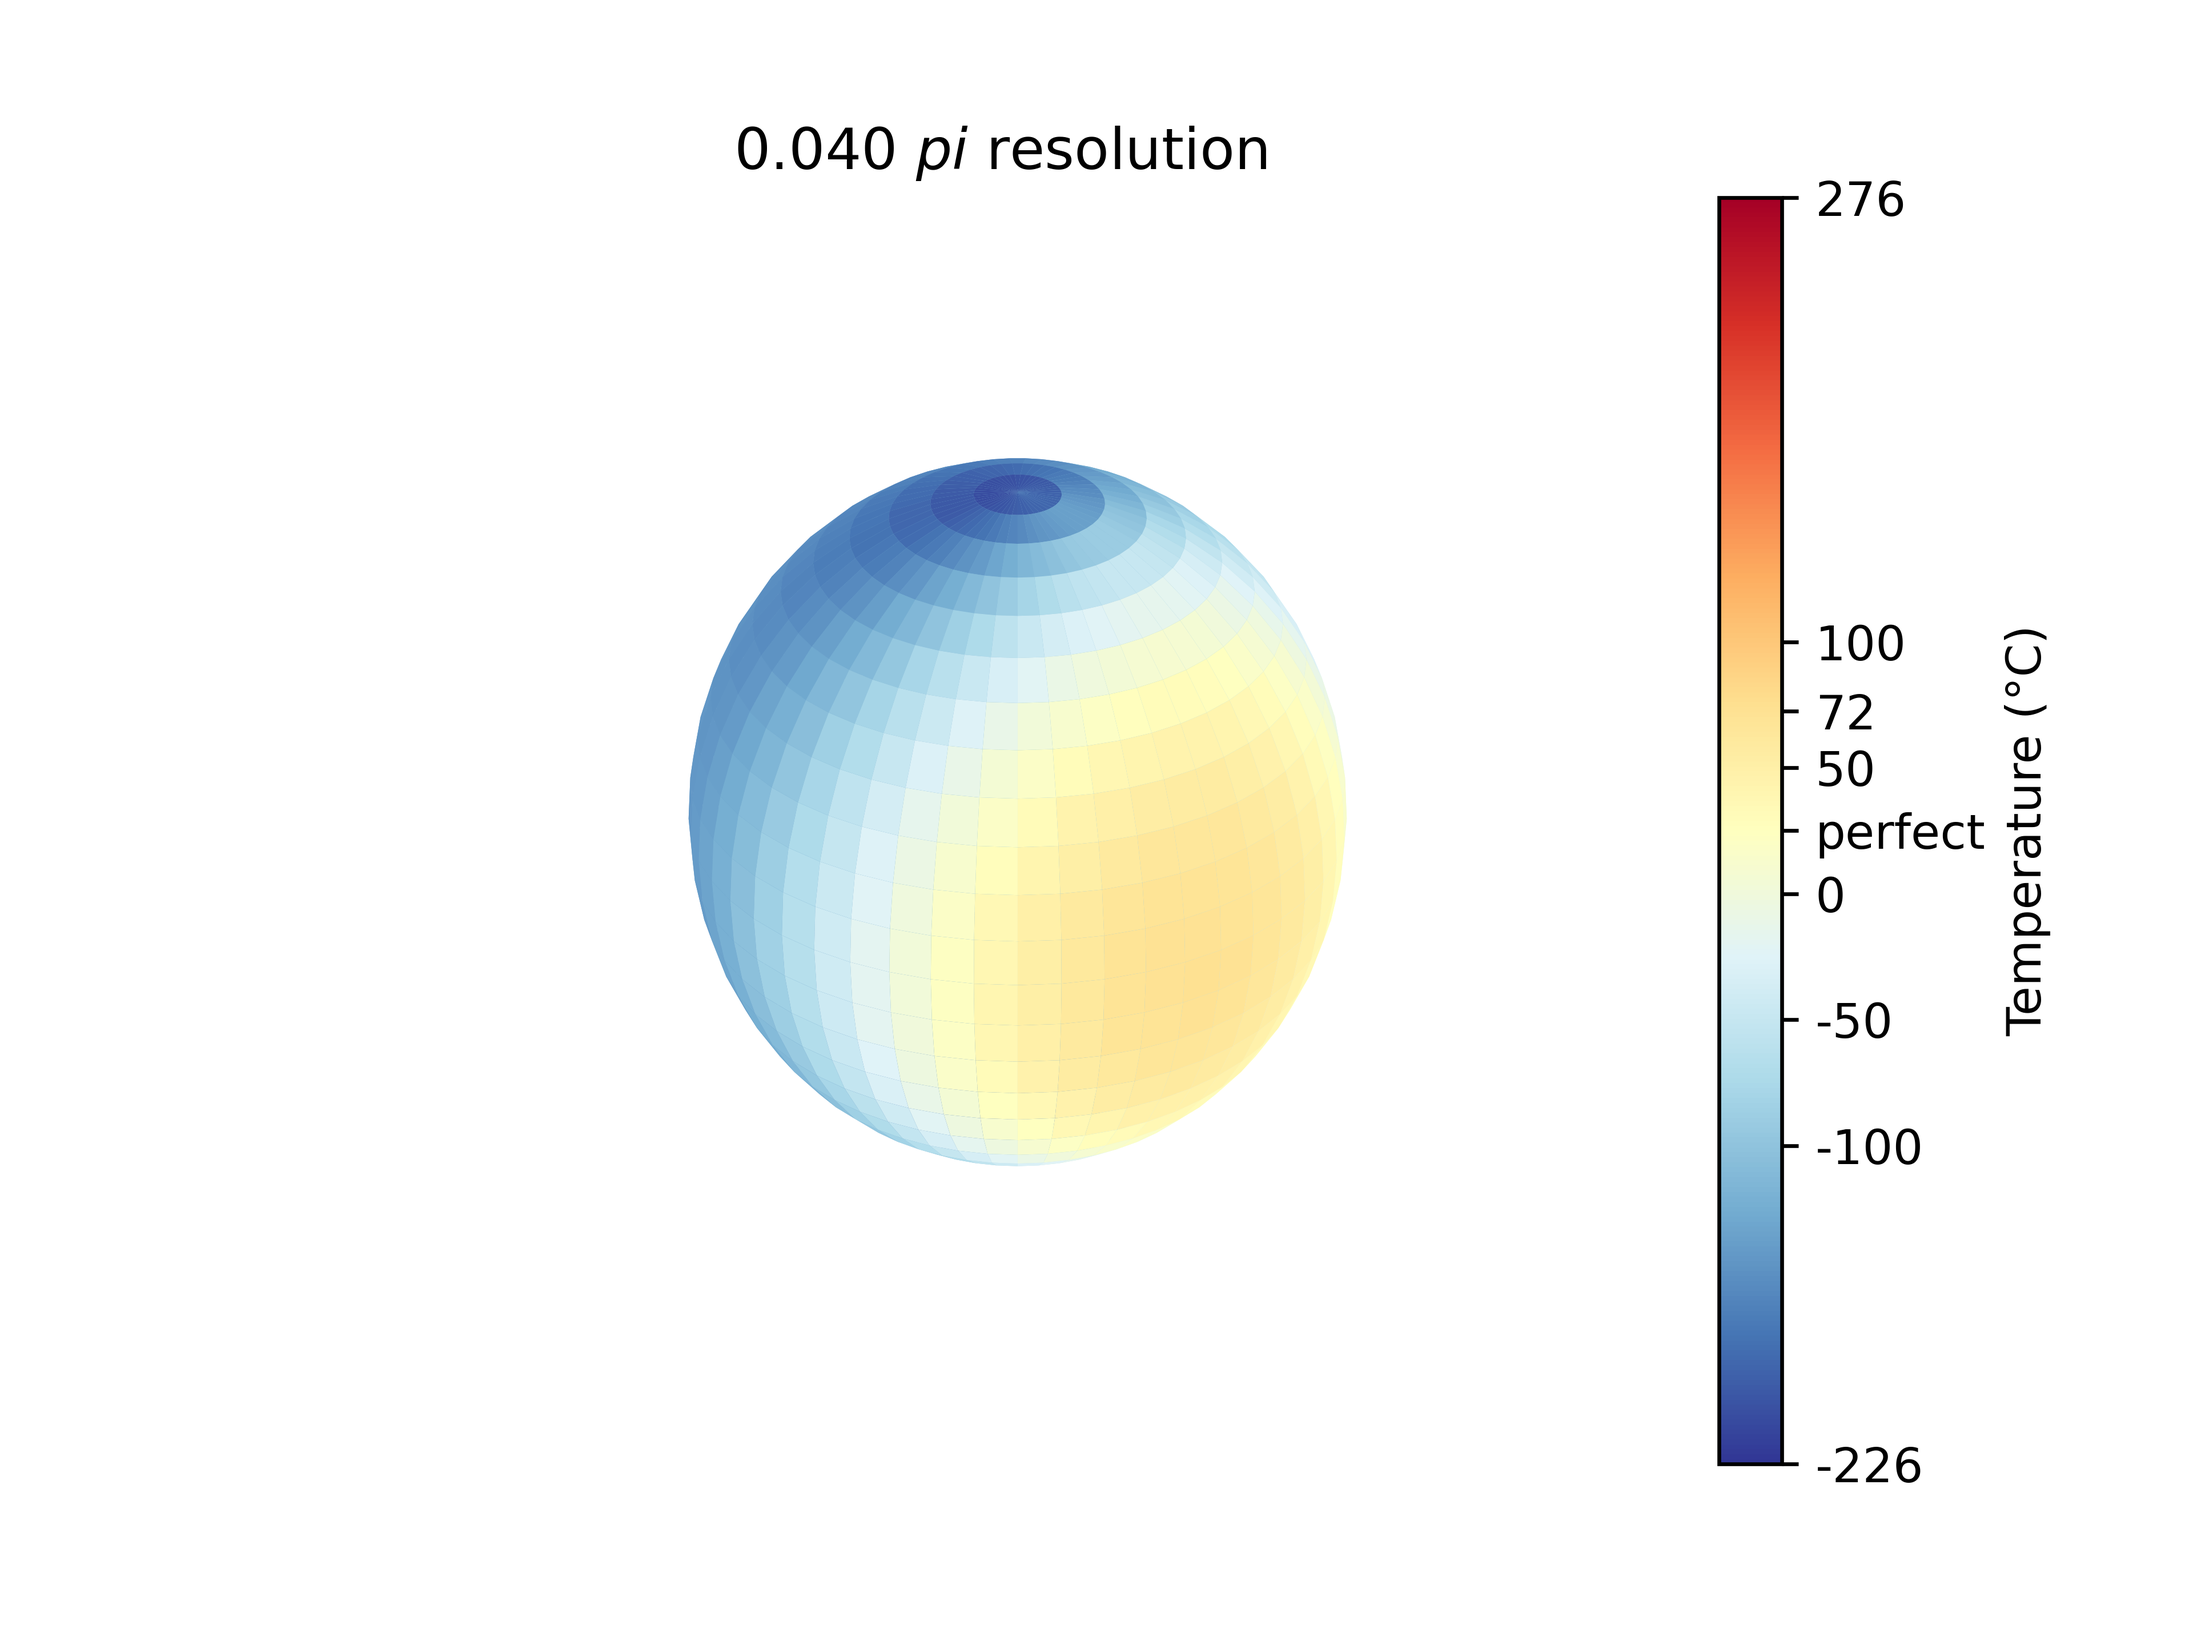
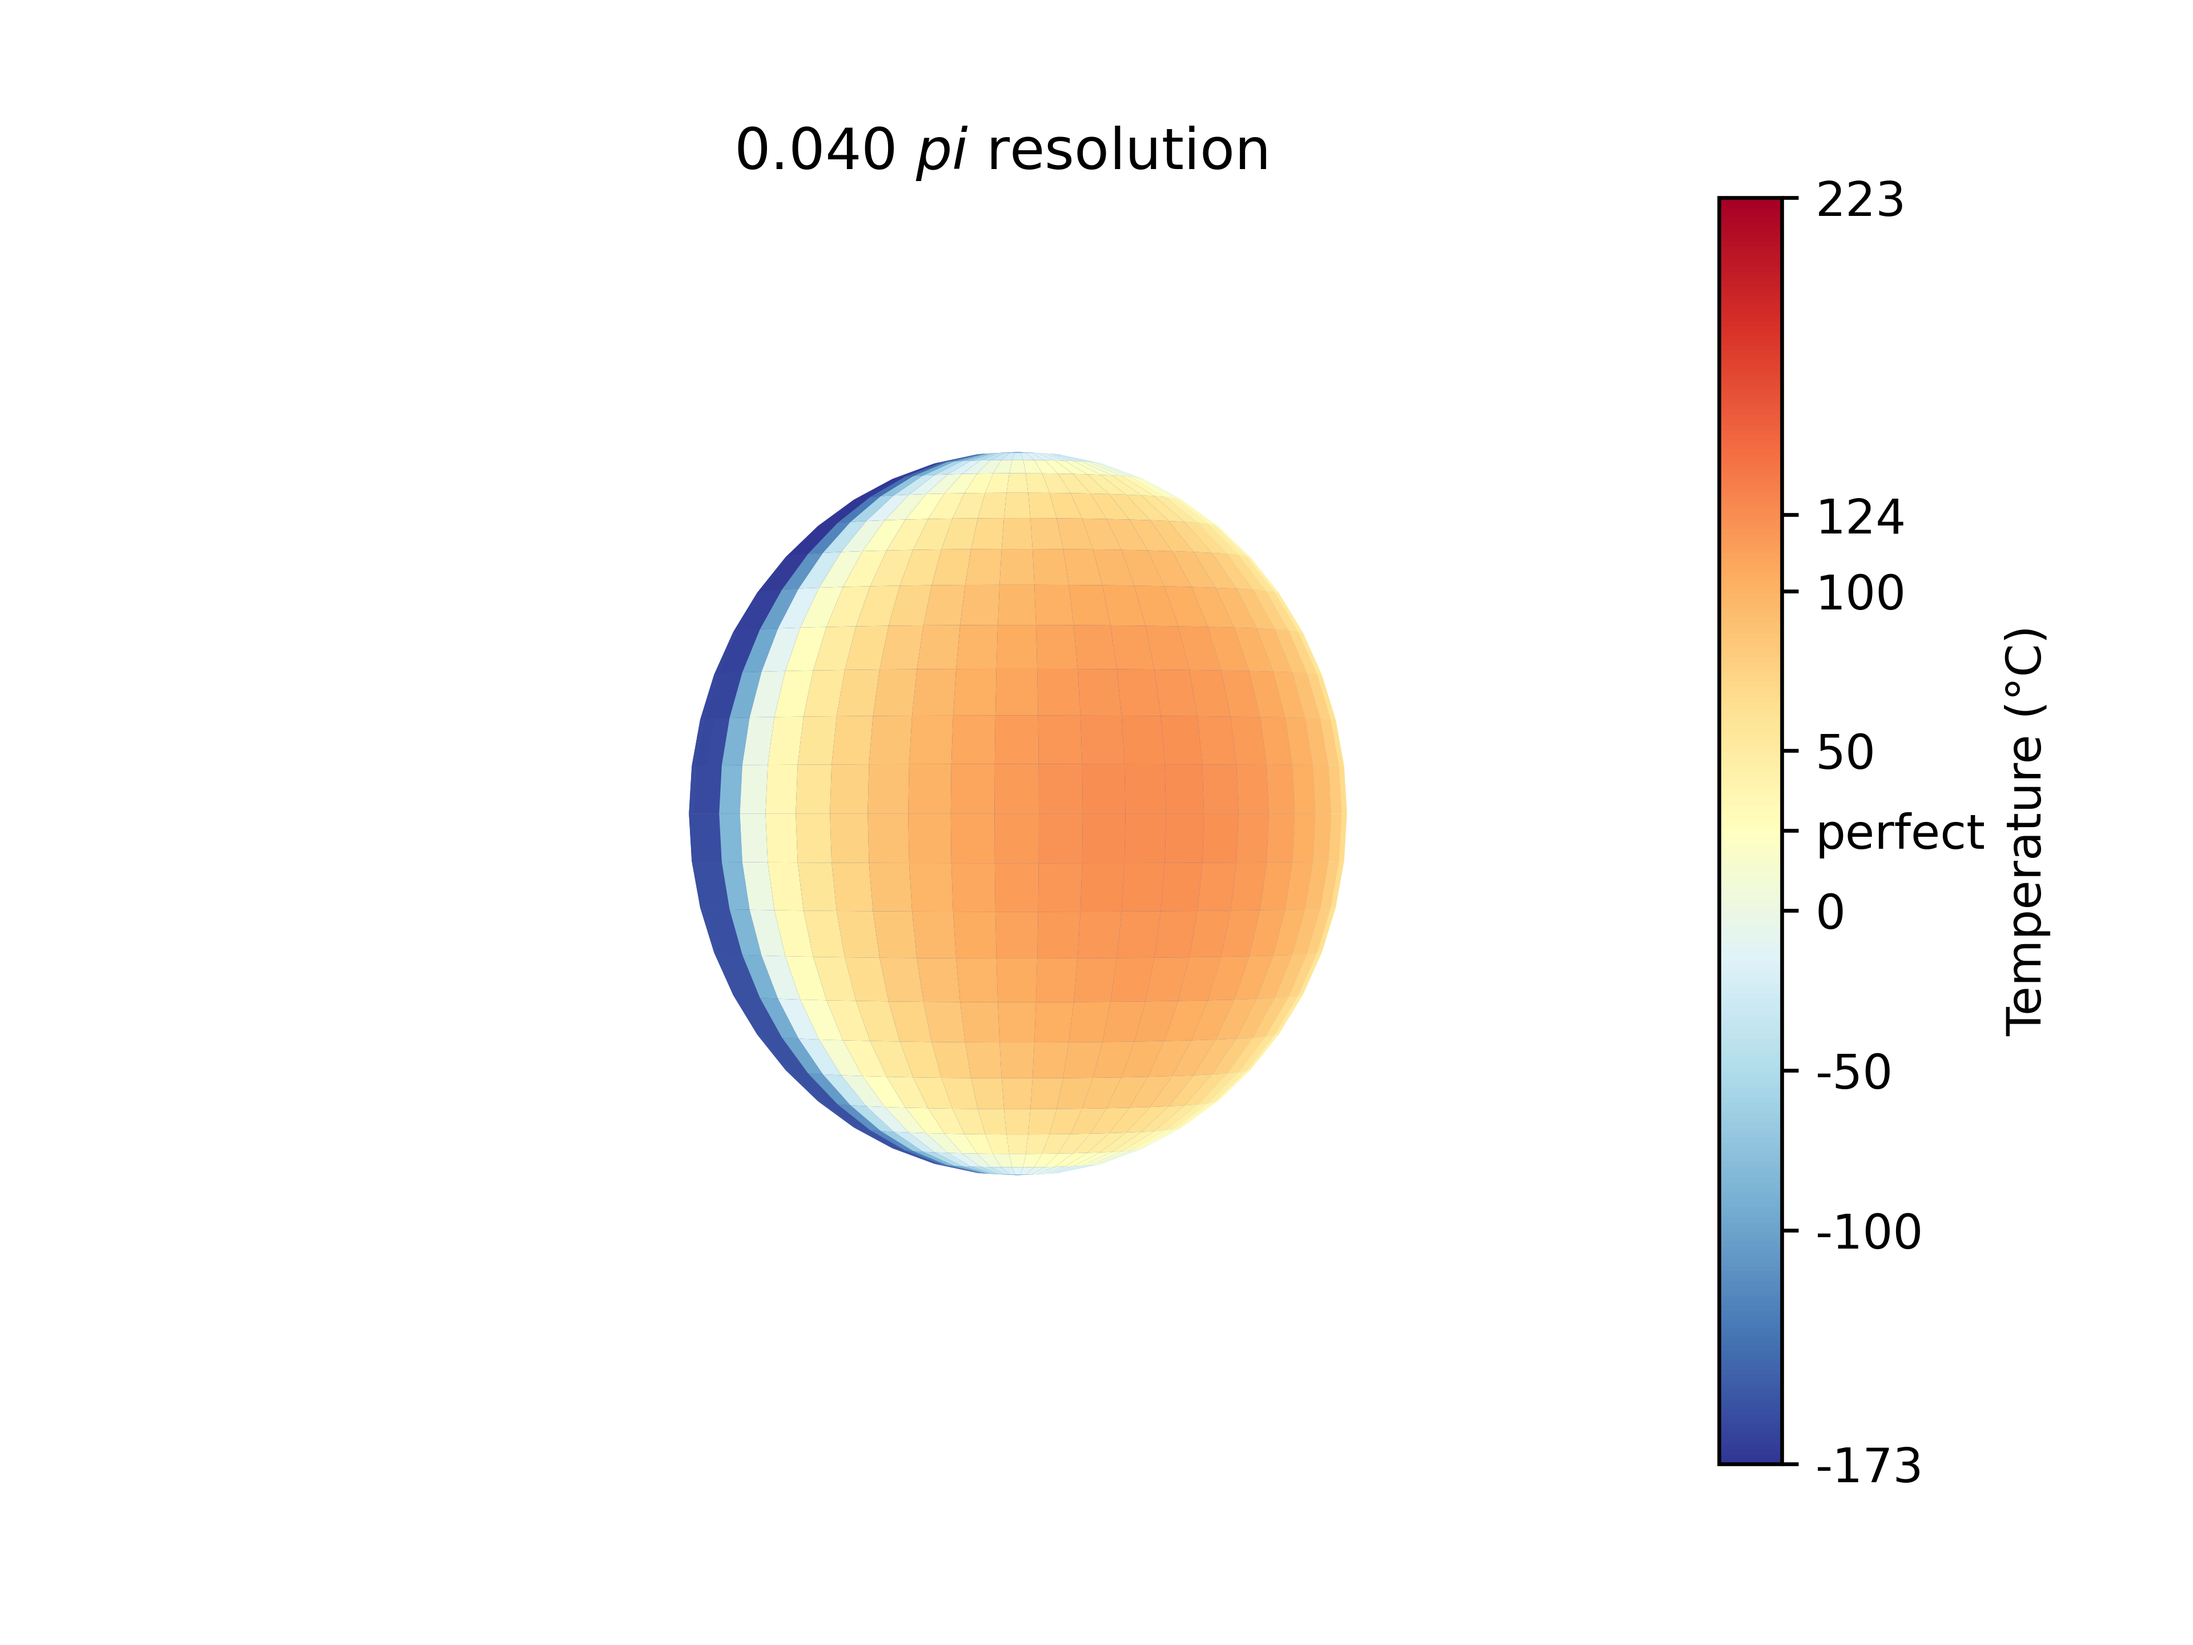
Better data

diff --git a/moon.py b/moon.py
@@ -10,19 +10,19 @@ k = 9.3e-3       # Thermal conductivity (W/m.K)
 alpha = k / (rho * Cp)  # Thermal diffusivity
 day_length = 27.3 * 24 * 3600  # Length of lunar day (s)
 rot_freq = 2 * np.pi / day_length  # Angular frequency of lunar rotation
-thickness = 1  # Thickness of the model (m)
+dr = 0.04  # Layer thickness
 
 # Define grid resolution
-N_lay = 10  # Number of layers
-N_lat = 25  # Latitude divisions
-N_lon = 50  # Longitude divisions
-N_days = 5  # Number of moon days
+N_lay = 20  # Number of layers
+N_lat = 50  # Latitude divisions
+N_lon = 100  # Longitude divisions
+N_days = 20  # Number of moon days
 N_time = N_days * 240  # number of times steps
 dt = 2.73 * 3600  # Time step (s) 1/240 moon days
 # dt = day_length / 200  # Time step (sec)
 # print(dt)
 dx = R_moon * np.pi / N_lat  # Grid spacing
-dr = thickness / N_lay  # Layer thickness
+thickness = N_lay * dr # Thickness of the model (m)
 
 # dt_max = dx**2 / (4 * alpha)
 # print(f"Recommended max dt: {dt_max}")
@@ -38,9 +38,9 @@ Th, Ph = np.meshgrid(theta, phi) # returns shape (len(phi), len(theta))
 # print(Ph)
 # Initialize temperature array
 T = 250 * np.ones_like(Th)  # Initial temperature (K)
-# T = np.stack([T] * (N_lay-1), axis=0)  # Stack layers
-surf_T = 100 * np.cos(Th) * np.sin(Ph) + 250  # Surface temperature (K)
-T = np.stack((surf_T, T, T, T, T, T, T, T, T, T), axis=0)  # Add surface layer
+T = np.repeat(T[np.newaxis, :, :], N_lay - 1, axis=0)
+surf_T = 100 * np.sin(Th) * np.sin(Ph) + 250  # Surface temperature (K)
+T = np.concatenate((surf_T[np.newaxis, :, :], T), axis=0)  # Add surface layer
 # print(T[-1])
 # Define solar flux (simplified)
 S_max = 1360.9  # Solar radiation at 1 AU (W/m^2)
@@ -59,7 +59,8 @@ for t in range(N_time):
             for j in range(0, N_lon):
                 #1D laplacian
                 if l==0:
-                    laplacian_T = (0 + T[1, i, j] - 2*T[l, i, j]) / dr**2
+                    laplacian_T = (T[1, i, j] - T[l, i, j]) / dr**2 # no conductivity with vacuum
+                      #T[1, i, j]
                     # print(laplacian_T*alpha*dt)
                 elif l == N_lay-1:
                     laplacian_T = (T[l-1, i, j] + T[l, i, j] - 2*T[l, i, j]) / dr**2
@@ -70,17 +71,17 @@ for t in range(N_time):
                 # print(laplacian_T)
                 # Solar heating (day side approximation)
                 if l == 0:
-                    sol_wave = np.cos(rot_freq * t * dt + Th[i,j])
+                    sol_wave = np.sin(rot_freq * t * dt + Th[i,j])
                     if sol_wave > 0: # Only consider day side
                         S = S_max * np.sin(Ph[i, j]) * sol_wave  # solar flux
                     # print(S)
                     # print(Ph[i, j])
-                        T_new[l, i, j] += (S * dt) / (rho * Cp * thickness)  # Heat absorbed
+                        T_new[l, i, j] += (S * dt) / (rho * Cp * dr)  # Heat absorbed
                         # print(S * dt / (rho * Cp * thickness))
                     # Radiative cooling (Stefan-Boltzmann law)
-                    T_new[l, i, j] -= emissivity * sigma * T[l, i, j]**4 * dt / (rho * Cp * thickness)
+                    T_new[l, i, j] -= emissivity * sigma * T[l, i, j]**4 * dt / (rho * Cp * dr)
                     # print(emissivity * sigma * T[l, i, j]**4 * dt / (rho * Cp * thickness))
-                T_new[l, i, j] = max(min(T_new[l, i, j], 500), -100)  # Keep within realistic lunar temperature limits
+                T_new[l, i, j] = max(min(T_new[l, i, j], 500), 0)  # Keep within realistic lunar temperature limits
     
     # print(T_new[1, 1])
     if t != 0:
@@ -96,7 +97,7 @@ for t in range(N_time):
 # Plot results
 temps = T[0, :, :] - 273  # Surface temperature (^oC)
 shape = temps.shape
-min_temp = temps.min()
+min_temp = temps[:-1, :].min()
 max_temp = temps.max()
 
 # Use below to make sphere same shape as temps, 
@@ -127,7 +128,9 @@ elif min_temp < 0:
 
 colours = colour_map(norm(temps))
 
-
+plt.imshow(temps, cmap=colour_map, interpolation='nearest', origin='lower', extent=[0, 2*np.pi, 0, np.pi])
+plt.colorbar(label='Temperature (°C)')
+plt.savefig('moon_temp.png', dpi=600, transparent=True)
 # Plotting moon
 fig = plt.figure()
 ax = fig.add_subplot(111, projection='3d')
@@ -147,7 +150,7 @@ elif min_temp < 0:
 
 ax.set_title('{:.3f} $pi$ resolution'.format(1 / shape[0]))
 ax.set_box_aspect((1, 1, 1)) # to be regular sphere
-ax.view_init(30, 0, 0) # Change viewing angle https://matplotlib.org/stable/api/_as_gen/mpl_toolkits.mplot3d.axes3d.Axes3D.view_init.html#mpl_toolkits.mplot3d.axes3d.Axes3D.view_init
+ax.view_init(30, 55, 0) # Change viewing angle https://matplotlib.org/stable/api/_as_gen/mpl_toolkits.mplot3d.axes3d.Axes3D.view_init.html#mpl_toolkits.mplot3d.axes3d.Axes3D.view_init
 plt.savefig('moon.png', dpi=600, transparent=True)
 plt.show()
 
